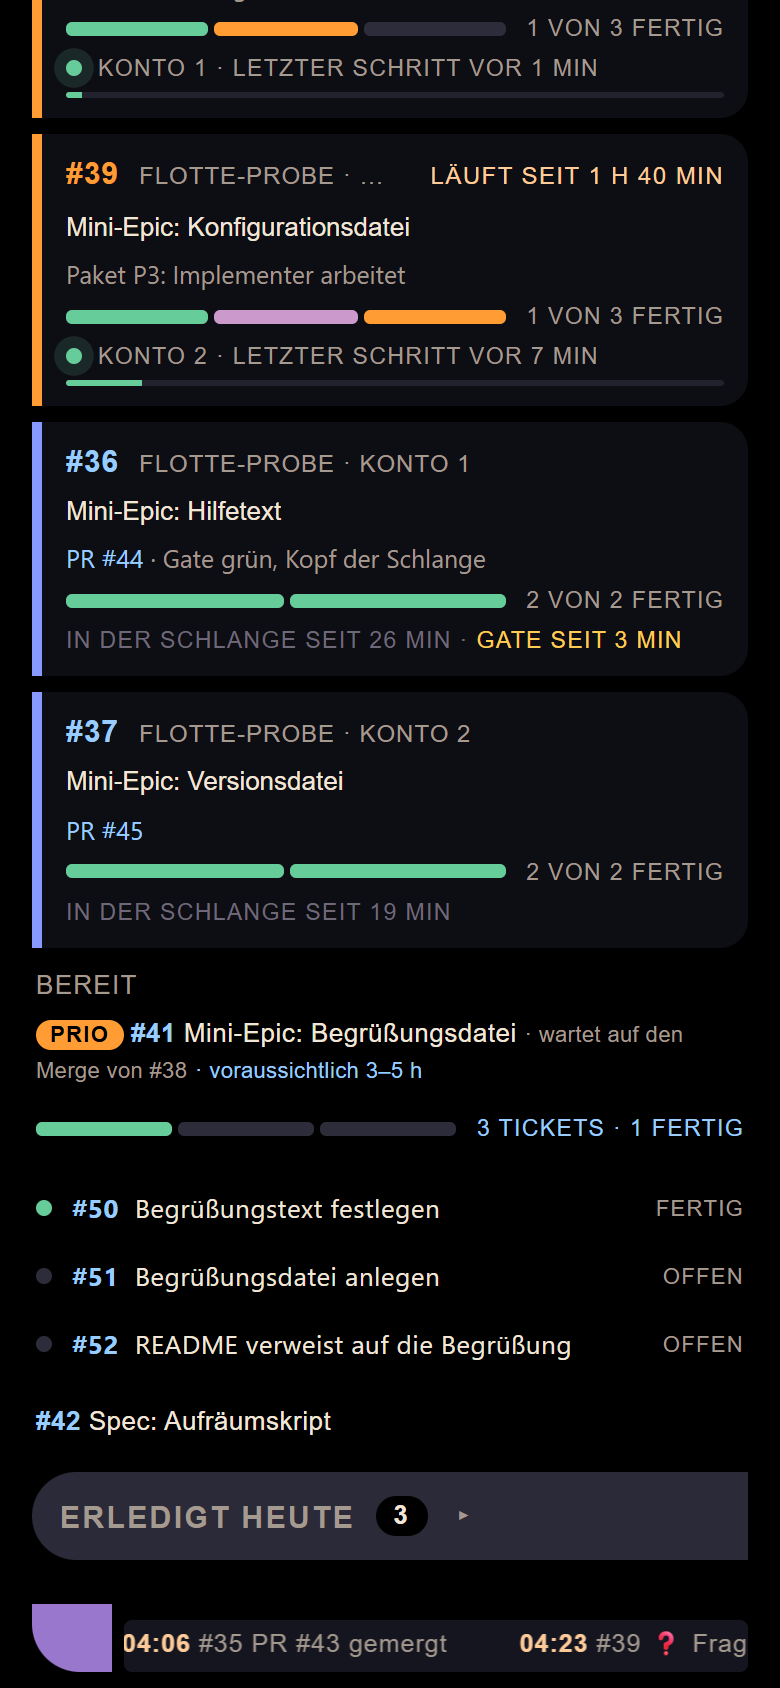
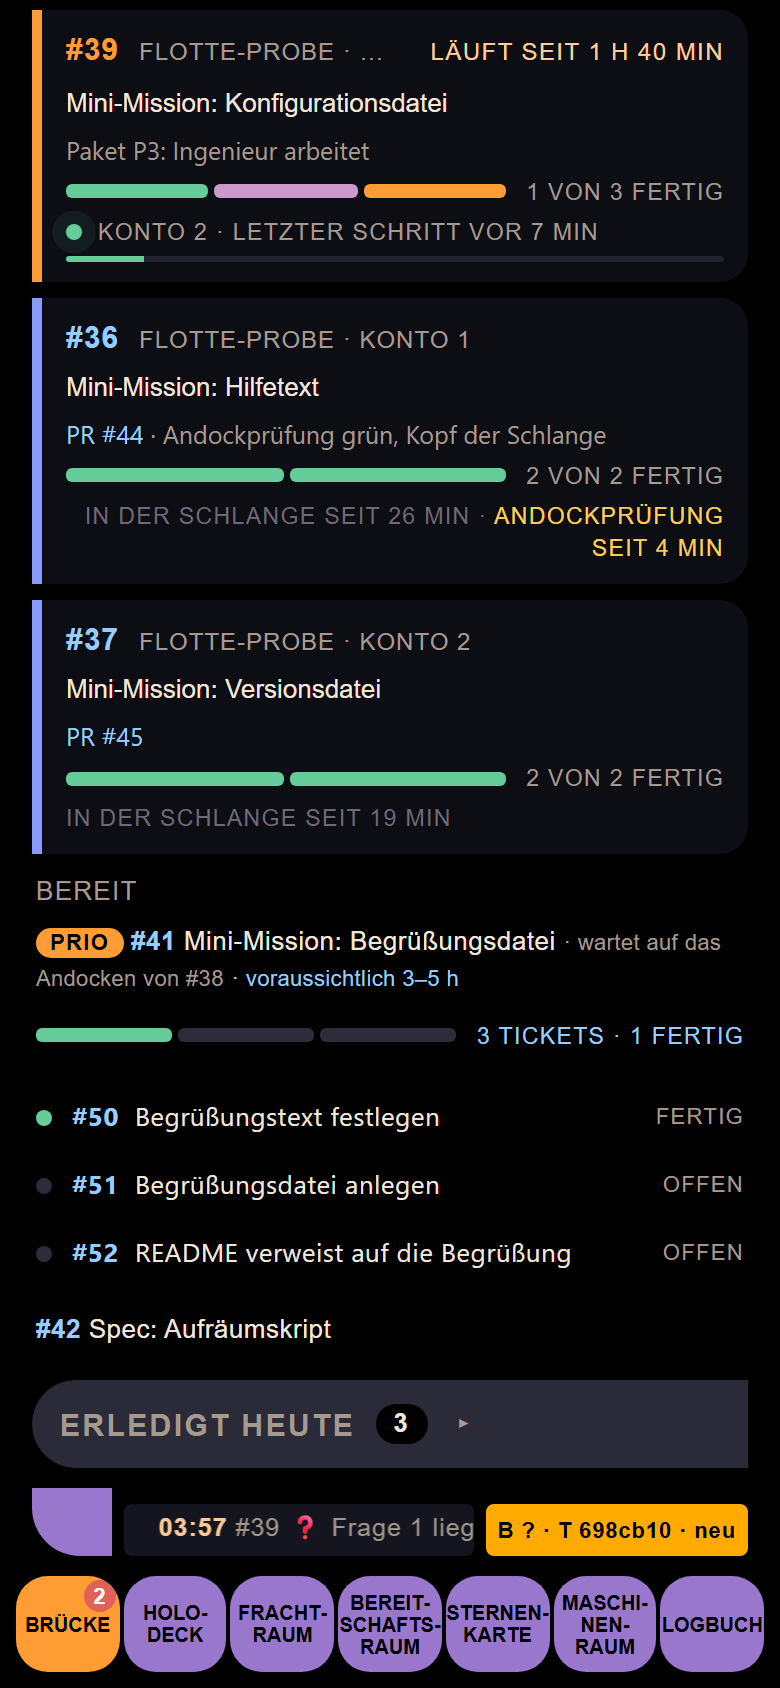
fix(flottenbruecke): retake the bridge images in the Sprachraum (#183)
The sample report speaks the driver's words (Mini-Mission, Andockprüfung,
angedockt, Erster Offizier), the phase "review" shows as "Erster Offizier",
and at 390 px the second tank of an account wraps instead of widening the
page. The images under assets/flottenbruecke/ are taken anew.

Closes #183

diff --git a/flottenbruecke/app/static/app.js b/flottenbruecke/app/static/app.js
@@ -9,7 +9,7 @@ const PIN_KEY = 'flottenbruecke-pin';
 const STILL = matchMedia('(prefers-reduced-motion: reduce)');
 const BREIT = matchMedia('(min-width: 701px)');
 const WORT = { ok: 'ok', warn: 'warn', hold: 'halt' };
-const PHASE = { implementer: 'Ingenieur', review: 'Review', nachbesserung: 'Nachbesserung', merge: 'Andocken', abgebrochen: 'Review abgebrochen' };
+const PHASE = { implementer: 'Ingenieur', review: 'Erster Offizier', nachbesserung: 'Nachbesserung', merge: 'Andocken', abgebrochen: 'Prüfung abgebrochen' };
 const STUFE = { mechanisch: 'Mechanisch', standard: 'Standard', urteil: 'Urteil', 'urteil-hoch': 'Urteil hoch' };
 const PAKET = { fertig: 'fertig', laeuft: 'läuft', geparkt: 'geparkt (Frage)', blockiert: 'blockiert', zurueckgelassen: 'zurückgelassen', offen: 'offen' };
 const HANDLUNG = { einreihen: 'Neu einreihen', aufgeben: 'Aufgeben', widerruf: 'Widerruf', aufnehmen: 'Aufnehmen', pausieren: 'Pausieren', fortsetzen: 'Fortsetzen', prioritaet: 'Priorität', merge: 'Andocken' };

diff --git a/flottenbruecke/app/static/app.css b/flottenbruecke/app/static/app.css
@@ -341,7 +341,9 @@ dialog p { font: 14px/1.45 var(--lesen); }
   .anzeige, .tank { font-size: 12px; padding: 2px 9px; min-height: 24px; }
   .fenster { grid-template-columns: auto 34px auto; gap: 0 4px; font-size: 11px; }
   .fenster .reset { display: none; }
-  .tank { gap: 6px; }
+  /* "Hauptenergie" and "Reserveenergie" do not fit on one line beside each other: the second tank wraps */
+  .tank { gap: 2px 6px; flex-wrap: wrap; max-width: 100%; }
+  .fenster + .fenster { margin-left: 0; }
   .projekte, .leer { margin-left: 0; }
   .ek { font-size: 15px; min-height: 44px; }
   .ek small { display: none; }

diff --git a/flottenbruecke/tests/test_bruecke.py b/flottenbruecke/tests/test_bruecke.py
@@ -88,7 +88,7 @@ def test_kosten_des_wartens(client, bericht):
 def test_fragekarte_traegt_was_der_mensch_braucht(client, bericht):
     client.post('/api/bericht', json=bericht)
     f = frage39(tafel(client))
-    assert f['frage'].startswith('Wo liegt') and f['titel'].startswith('Mini-Epic') and f['konto'] == 'Konto 2'
+    assert f['frage'].startswith('Wo liegt') and f['titel'].startswith('Mini-Mission') and f['konto'] == 'Konto 2'
     assert (f['marke'], f['umkehrbar'], f['herkunft']) == ('nach außen sichtbar', False, 'Eigenes Urteil: nach außen sichtbar')
     assert f['grund'].startswith('Der Ort der Datei')
     # holds 1 of 3 packages
@@ -102,7 +102,7 @@ def test_blockadekarte_mit_grund_und_log(client, bericht):
     client.post('/api/bericht', json=bericht)
     b = tafel(client)['braucht'][0]
     assert (b['art'], b['epic'], b['stufe']) == ('blockade', 40, 'blockiert')
-    assert b['grund'].startswith('3 Gate-Läufe') and len(b['log']) == 5
+    assert b['grund'].startswith('3 Andockprüfungen') and len(b['log']) == 5
     assert (b['seit'], b['wartetS'], b['handlung']) == ('2026-11-20T14:05:44+00:00', 1526, None)
 
 
@@ -188,7 +188,7 @@ def test_bericht_eines_alten_treibers_ohne_neue_felder(client, bericht):
         del bericht['fragen'][0][k]
     assert client.post('/api/bericht', json=bericht).status_code == 200
     assert ebenen(client)['braucht'] == [('blockade', 40), ('frage', 39)]
-    assert tafel(client)['braucht'][0]['grund'].startswith('Gate dreimal rot')
+    assert tafel(client)['braucht'][0]['grund'].startswith('Andockprüfung dreimal rot')
 
 
 def test_stufe_statt_prozent_bleibt_pflicht(client, bericht):
@@ -524,7 +524,7 @@ def test_prio_steht_in_bereit_oben_mit_grund(client, bericht):
     client.post('/api/bericht', json=bericht)
     bereit = tafel(client)['unterwegs']['bereit']
     assert [(x['nr'], x['prio']) for x in bereit] == [(41, True), (30, False), (42, False)]
-    assert bereit[0]['notiz'] == 'wartet auf den Merge von #38'
+    assert bereit[0]['notiz'] == 'wartet auf das Andocken von #38'
 
 
 def test_bereit_zeigt_die_kind_tickets_als_links(client, bericht):

diff --git a/flottenbruecke/tests/test_meldung.py b/flottenbruecke/tests/test_meldung.py
@@ -127,7 +127,7 @@ def test_einmal_je_ereignis_gebuendelt_und_nach_neustart_still(baue, bericht, di
     c.post('/api/bericht', json=bericht)
     assert [g['daten']['titel'] for g in dienst.gesendet] == ['Braucht dich: 2 neue Meldungen']
     # in the order of level 1: the longest wait first
-    assert dienst.gesendet[0]['daten']['text'] == 'flotte-probe #40 Blockade · Mini-Epic: Startskript\nflotte-probe #39 Frage · Mini-Epic: Konfigurationsdatei'
+    assert dienst.gesendet[0]['daten']['text'] == 'flotte-probe #40 Blockade · Mini-Mission: Startskript\nflotte-probe #39 Frage · Mini-Mission: Konfigurationsdatei'
     c.post('/api/bericht', json=bericht)
     # a restart of the bridge on the same database
     baue().post('/api/bericht', json=bericht)
@@ -135,7 +135,7 @@ def test_einmal_je_ereignis_gebuendelt_und_nach_neustart_still(baue, bericht, di
     # a new question rings alone
     bericht['fragen'].append({**bericht['fragen'][0], 'nr': 2, 'seit': '2026-11-20T14:30:00Z'})
     c.post('/api/bericht', json=bericht)
-    assert dienst.gesendet[1]['daten'] == {'titel': 'Braucht dich: flotte-probe #39', 'text': 'Frage · Mini-Epic: Konfigurationsdatei'}
+    assert dienst.gesendet[1]['daten'] == {'titel': 'Braucht dich: flotte-probe #39', 'text': 'Frage · Mini-Mission: Konfigurationsdatei'}
     assert dienst.gesendet[1]['claims']['sub'].startswith('mailto:')
 
 

diff --git a/flottenbruecke/tests/test_steuern.py b/flottenbruecke/tests/test_steuern.py
@@ -99,7 +99,7 @@ def test_sternenkarte_zeigt_einsatz_pause_prioritaet_und_freigegebene(client, be
     assert (k[41]['prio'], k[41]['prioritaet']) == (True, 'hoch')
     assert all(e['imEinsatz'] for e in k.values())
     assert projekt(client)['freigegeben'] == [
-        {'nr': 43, 'titel': 'Mini-Epic: Statusseite', 'issueUrl': 'https://github.com/interias/flotte-probe/issues/43', 'handlung': None},
+        {'nr': 43, 'titel': 'Mini-Mission: Statusseite', 'issueUrl': 'https://github.com/interias/flotte-probe/issues/43', 'handlung': None},
         {'nr': 44, 'titel': 'Spec: Exportskript', 'issueUrl': 'https://github.com/interias/flotte-probe/issues/44', 'handlung': None},
     ]
     # on their way: each in its row, until the driver acknowledges it

diff --git a/assets/flottenbruecke/README.md b/assets/flottenbruecke/README.md
@@ -1,7 +1,6 @@
 # Brückenbilder
 
-`board-v2.png` (1440 px breit) und `board-v2-handy.png` (390 px breit, doppelte Auflösung) im README
-des Repositorys sind Bildschirmfotos der [Flottenbrücke](../../flottenbruecke/README.md) mit den
+`board-v2.png` (1440 px breit) und `board-v2-handy.png` (390 px breit, doppelte Auflösung) sind Bildschirmfotos der [Flottenbrücke](../../flottenbruecke/README.md) mit den
 Beispieldaten aus `flottenbruecke/beispiel/bericht.json`. Neu aufnehmen:
 
 1. Die Brücke lokal auf einem freien Port starten, `BRUECKE_DB` auf eine Wegwerfdatei, mit
@@ -14,5 +13,5 @@ Beispieldaten aus `flottenbruecke/beispiel/bericht.json`. Neu aufnehmen:
 4. Die Brücke wieder stoppen.
 
 `bereit-tickets.png` und `bereit-tickets-handy.png` zeigen dasselbe Beispiel, auf die Zeile
-„Bereit“ gescrollt, die Tickets von #41 aufgeklappt (#42 im spec-Modus ohne Leiste).
+„Bereit“ gescrollt (auf dem Handy „Unterwegs“ aufgeklappt), die Tickets von #41 aufgeklappt (#42 im spec-Modus ohne Leiste).
 `tanks-uebrig.png` und `tanks-uebrig-handy.png` zeigen nur den Kopf mit den Tanks („62 % übrig“).

diff --git a/flottenbruecke/README.md b/flottenbruecke/README.md
@@ -230,7 +230,7 @@ Drei Ebenen, sortiert danach, was du tun musst:
 in Ingenieur, Review oder Nachbesserung gegen das Fenster des Projektadapters) und die Zahl der
 **Neustarts** des Laufs; die Laufzeit ist der Knopf „läuft seit …“. In der aufgeklappten Paketliste
 hat jedes Paket, zu dem der Treiber Agent-Aufrufe im Protokoll des Laufs sah, eine zweite Zeile:
-Phase (Ingenieur, Review, Nachbesserung, Andocken) mit Dauer in der Phase, Dauer gesamt, Runde, Stufe
+Phase (Ingenieur, Erster Offizier, Nachbesserung, Andocken) mit Dauer in der Phase, Dauer gesamt, Runde, Stufe
 (eine Eskalation als „Standard → Urteil“) und die Uhrzeit des Lebenszeichens. „länger als üblich“
 (ruhig, kein Rot) erscheint, wenn ein laufendes Paket länger als das 1,5-Fache des Medians der
 fertigen Pakete des Projekts läuft, ab drei fertigen; die Brücke rechnet es selbst. Fehlt ein Feld
